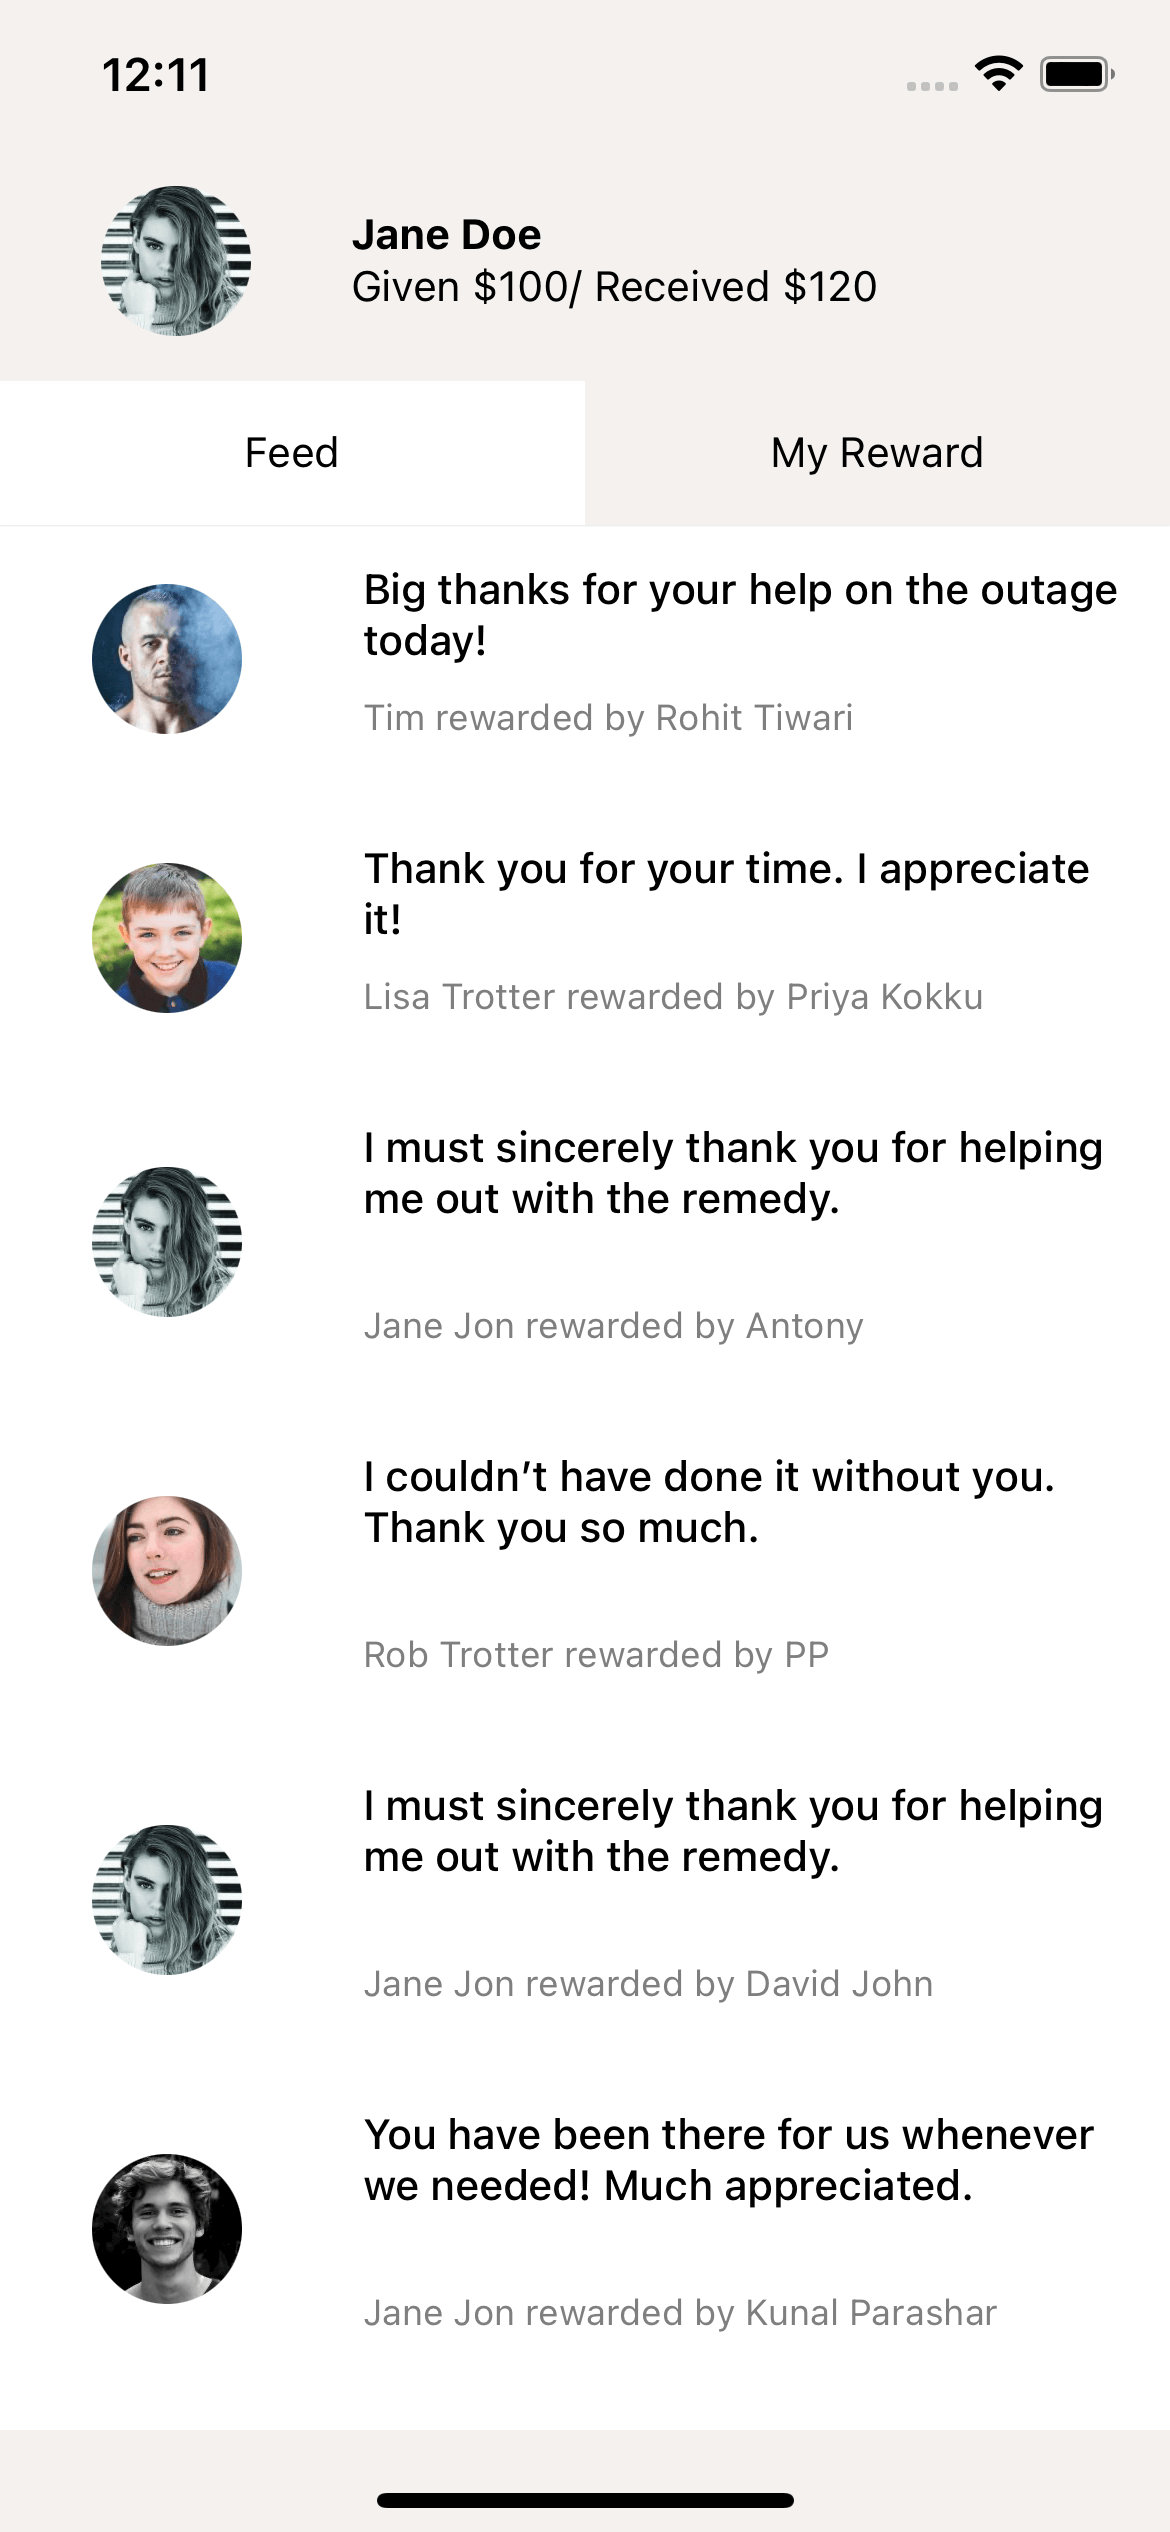
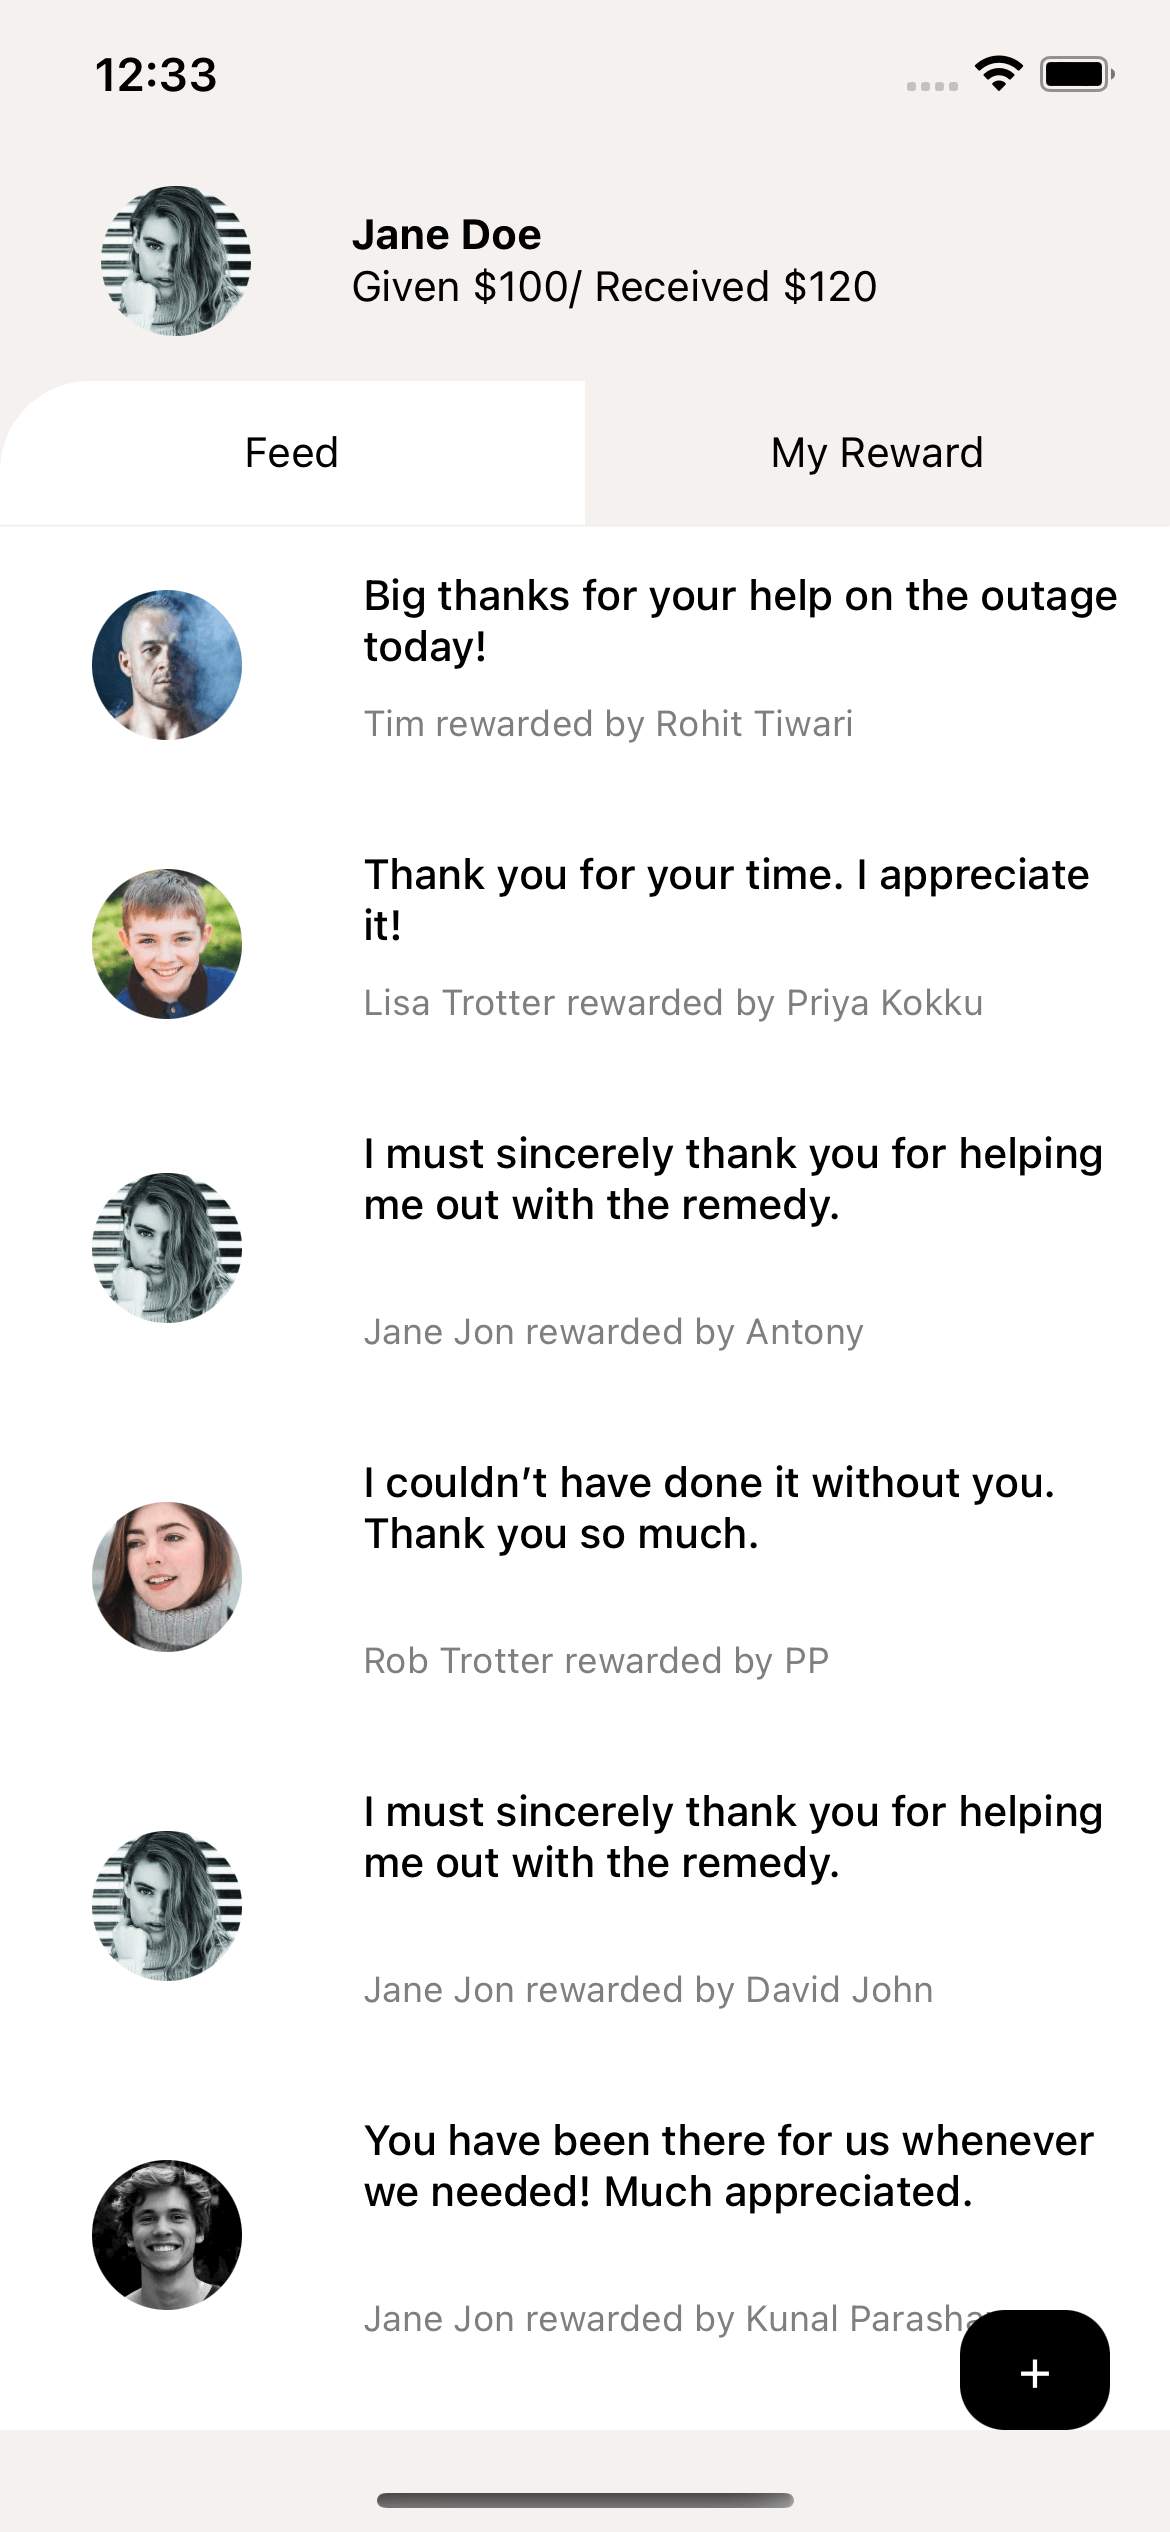
Final commit

diff --git a/src/screens/profile/components/ProfileTabs.js b/src/screens/profile/components/ProfileTabs.js
@@ -3,7 +3,6 @@ import {SceneMap, TabView} from 'react-native-tab-view';
 import FeedContainer from '../FeedContainer';
 import RewardContainer from '../RewardContainer';
 import {Dimensions, StyleSheet} from 'react-native';
-import colors from '../../../theme/colors';
 
 class ProfileTabs extends Component<{
   navigationState: Readonly<S>,

diff --git a/src/screens/profile/ProfileContainer.js b/src/screens/profile/ProfileContainer.js
@@ -83,6 +83,7 @@ class Example extends Component {
     );
   }
 }
+
 const styles = StyleSheet.create({
   container: {
     flex: 1,

diff --git a/README.md b/README.md
@@ -10,16 +10,20 @@
 ### Covered and WIP:
 1. Feed Page ✅
 2. My Rewards Page ✅
-3. Input Form 
+3. Input Form ✅
 
 
 #### Screenshots
 
 <table>
-  
+  <tr>
+  <img src="./demo/demo.gif" width="375" height="812" />
+  <tr>
   <tr>
     <td><img src="./demo/1.png" width="300"></td>
     <td><img src="./demo/2.png" width="300"></td>
+    <td><img src="./demo/3.png" width="300"></td>
+
   <tr>
  
 
